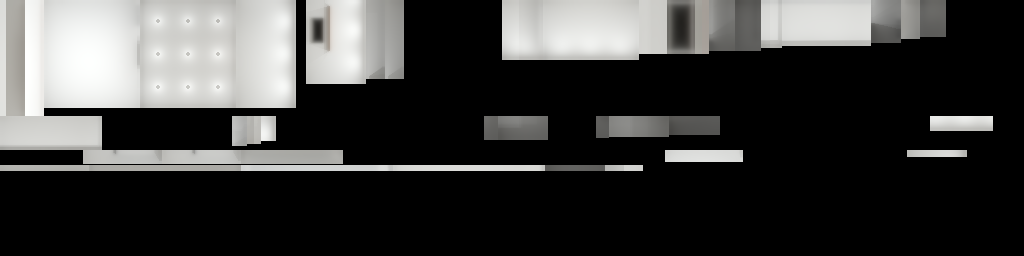
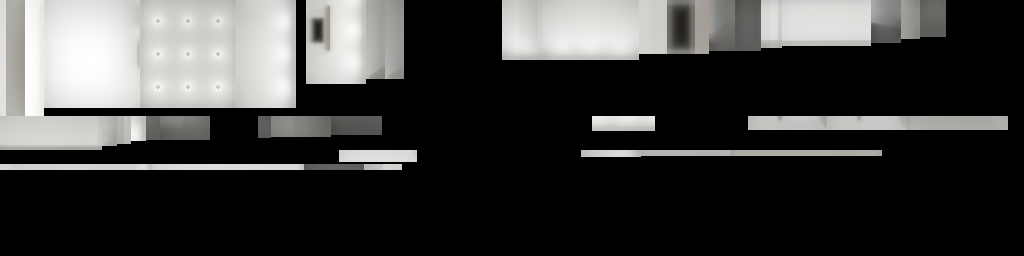
le Fleur Matcha: nur Gastraum (Theke raus), Sitzplätze + Stehbar mit Hockern
Claude-Session: https://claude.ai/code/session_01LTkqe2qEJCCsMp6yjQTc2F

Changed region(s): [[0.0, 0.4375, 1.0, 0.6875]]

diff --git a/lefleur/matcha/room.js b/lefleur/matcha/room.js
@@ -431,23 +431,7 @@ function slats(host, plane, a0, a1, y0, y1, seed) {
   const g = shadeVC(hostUV(mergeGeos(geos), host), faceK(fx, fz, 0.95, 0.5, 0.42, 0.4));
   return new THREE.Mesh(g, bakedMat(lin(1, 1, 1), oakV, { vertexColors: true }));
 }
-{
-  const C = S.CAB, P = S.PAN;
-  addF(slats('m_cab_z0', { n: 'z', c: C.z0, s: -1 }, C.x0, C.x1, 0.004, C.y1 - 0.002, 5));
-  addF(slats('m_cab_x0', { n: 'x', c: C.x0, s: -1 }, C.z0, C.z1, 0.004, C.y1 - 0.002, 6));
-  addF(slats('m_cab_x1', { n: 'x', c: C.x1, s: +1 }, C.z0, C.z1, 0.004, C.y1 - 0.002, 7));
-  addF(slats('m_pan_x1', { n: 'x', c: P.x1, s: +1 }, P.z0, P.z1, 0.0, P.y1, 8), 'D');
-  // Rückseite (Personal): 3 Türen, Griffe, Luft unter den Schränken
-  const z = C.z1 + 0.0012, e = eAt('m_cab_z1', [1.8, 0.5, C.z1]);
-  const seam = new THREE.MeshBasicMaterial({ color: lin(0.25 * e[0], 0.25 * e[1], 0.25 * e[2]) });
-  for (const x of [0.92, 1.52, 2.12, 2.72]) addF(new THREE.Mesh(boxG(x - 0.0015, x + 0.0015, 0.125, C.y1, z - 0.001, z), seam));
-  const hm = new THREE.MeshBasicMaterial({ color: lin(0.08 * e[0], 0.08 * e[1], 0.08 * e[2]) });
-  for (const x of [1.22, 1.82, 2.42]) addF(new THREE.Mesh(boxG(x - 0.06, x + 0.06, 0.80, 0.815, z, z + 0.02), hm));
-  const voidM = new THREE.MeshBasicMaterial({ color: lin(0.06 * e[0], 0.06 * e[1], 0.06 * e[2]) });
-  addF(new THREE.Mesh(boxG(0.92, 2.72, 0.0, 0.125, z, z + 0.001), voidM));
-  const lg = litMat('floor', [1.8, 0, C.z1 + 0.3], [0.7, 0.7, 0.7]);
-  for (const x of [0.95, 1.49, 1.55, 2.09, 2.15, 2.69]) addF(new THREE.Mesh(new THREE.CylinderGeometry(0.014, 0.014, 0.125, 10).translate(x, 0.0625, C.z1 - 0.03), lg));
-}
+addF(slats('m_pan_x1', { n: 'x', c: S.PAN.x1, s: +1 }, S.PAN.z0, S.PAN.z1, 0.0, S.PAN.y1, 8), 'D');   // Lamellen an Wand D
 
 // --- Bank-Gestell (STEGESUND, Bambus) und Naht zwischen den Polstern
 {
@@ -497,7 +481,7 @@ const CHG = chairGeo();
 S.CHAIRS.forEach(([x, z], i) => {
   const e = eAt(`m_c${i}_y1`, [x, 0.45, z]);
   const m = new THREE.Mesh(CHG, new THREE.MeshBasicMaterial({ color: lin(0.66 * e[0], 0.49 * e[1], 0.29 * e[2]), vertexColors: true, side: THREE.DoubleSide }));
-  m.rotation.y = i < 3 ? Math.PI : Math.atan2(S.TBIG[0] - x, S.TBIG[1] - z); m.position.set(x, 0, z); addF(m);
+  m.rotation.y = S.CHAIRS[i][2]; m.position.set(x, 0, z); addF(m);
   addF(new THREE.Mesh(new THREE.CircleGeometry(0.33, 32).rotateX(-Math.PI / 2).translate(x, 0.0012, z), new THREE.MeshBasicMaterial({ map: blobTex, transparent: true, depthWrite: false, opacity: 0.35, color: 0x000000 })));
 });
 
@@ -651,48 +635,34 @@ function plant(x, z, y0, kind, size, seed, wall = null, potR = 0.1, potH = 0.19)
 }
 plant(0.33, 0.36, 0, 'fig', 1.45, 3, null, 0.105, 0.2);                  // Birkenfeige, Ecke am Fenster
 plant(3.455, -0.14, 0, 'paddle', 1.05, 4, null, 0.115, 0.22);           // Paradiesvogelblume, rechts in der Nische
-plant(1.06, 3.88, S.TOP.y1, 'palm', 0.42, 5, null, 0.06, 0.11);         // Areca auf der Theke
-plant(W - 0.15, 1.62, S.SHELF.y, 'round', 0.3, 6, 'B', 0.06, 0.11);    // Monstera auf der Stehbar
+plant(W - 0.15, 3.48, S.SHELF.y, 'palm', 0.42, 5, 'B', 0.06, 0.11);    // Areca auf der Stehbar
+plant(W - 0.15, 1.56, S.SHELF.y, 'round', 0.3, 6, 'B', 0.06, 0.11);    // Monstera auf der Stehbar
 plant(1.08, L - 0.1, S.SHELVES[1] + 0.025, 'grass', 0.22, 7, 'C', 0.045, 0.08);  // Gras oben im Regal
 
-// --- Theke: Matcha-Schale mit Besen, Kassen-Tablet (PayPoint) und Kartenterminal
+// --- Barhocker DALFRED (schwarz, 63–74 cm) an der Stehbar
 {
-  const T = S.TOP, yT = T.y1, eT = (x, z) => eAt('m_top_y1', [x, yT, z]);
-  const mk = (x, z, alb, extra = {}) => { const e = eT(x, z); return new THREE.MeshBasicMaterial({ color: lin(alb[0] * e[0], alb[1] * e[1], alb[2] * e[2]), vertexColors: true, ...extra }); };
-  const bx = 1.62, bz = 3.92;
-  const pts = [[0.001, 0], [0.03, 0], [0.034, 0.008], [0.058, 0.03], [0.068, 0.072], [0.062, 0.072], [0.05, 0.035], [0.001, 0.014]].map(([a, b]) => new THREE.Vector2(a, b));
-  addF(new THREE.Mesh(shadeVC(new THREE.LatheGeometry(pts, 32).translate(bx, yT, bz), roundK(0.5, 1)), mk(bx, bz, [0.78, 0.75, 0.66])));
-  addF(new THREE.Mesh(shadeVC(new THREE.CircleGeometry(0.058, 28).rotateX(-Math.PI / 2).translate(bx, yT + 0.062, bz), () => 1), mk(bx, bz, [0.32, 0.46, 0.16])));
-  const wx = bx + 0.13;
-  addF(new THREE.Mesh(shadeVC(new THREE.CylinderGeometry(0.026, 0.012, 0.06, 20, 1, true).translate(wx, yT + 0.03, bz), roundK(0.5, 1)), mk(wx, bz, [0.68, 0.56, 0.36], { side: THREE.DoubleSide })));
-  addF(new THREE.Mesh(shadeVC(new THREE.CylinderGeometry(0.011, 0.011, 0.06, 12).translate(wx, yT + 0.09, bz), roundK(0.5, 1)), mk(wx, bz, [0.68, 0.56, 0.36])));
-  // Tablet-Kasse auf Ständer (zeigt zum Personal)
-  const tx = 2.42, tz = 4.02, dark = mk(tx, tz, [0.06, 0.06, 0.065]);
-  addF(new THREE.Mesh(shadeVC(new THREE.CylinderGeometry(0.06, 0.07, 0.012, 24).translate(tx, yT + 0.006, tz), roundK(0.5, 1)), dark));
-  addF(new THREE.Mesh(shadeVC(boxG(tx - 0.012, tx + 0.012, yT, yT + 0.17, tz - 0.012, tz + 0.012), roundK(0.5, 1)), dark));
-  const tab = new THREE.Group(); tab.position.set(tx, yT + 0.25, tz + 0.012); tab.rotation.x = -0.35;
-  const tg = shadeVC(boxG(-0.15, 0.15, -0.1, 0.1, -0.008, 0.008), faceK(0, 1, 0.8, 0.5, 0.6, 0.55)); tab.add(new THREE.Mesh(tg, dark));
-  const scr = new THREE.CanvasTexture(cnv(300, 200, (g, w, h) => { g.fillStyle = '#f6f8fb'; g.fillRect(0, 0, w, h); g.fillStyle = '#00afef'; g.fillRect(0, 0, w, 24); g.fillStyle = '#e5e8ee'; for (let i = 0; i < 6; i++) g.fillRect(14 + (i % 3) * 66, 40 + Math.floor(i / 3) * 70, 56, 56); g.fillStyle = '#0f172b'; g.fillRect(222, 40, 64, 140); })); scr.colorSpace = THREE.SRGBColorSpace;
-  const sg = new THREE.PlaneGeometry(0.28, 0.18); sg.translate(0, 0, 0.0085); tab.add(new THREE.Mesh(sg, new THREE.MeshBasicMaterial({ map: scr, color: lin(0.85, 0.85, 0.85) })));
-  addF(tab);
-  const kx = 2.12, kz = 3.98;
-  addF(new THREE.Mesh(shadeVC(boxG(kx - 0.04, kx + 0.04, yT, yT + 0.03, kz - 0.085, kz + 0.085), faceK(0, -1, 0.9, 0.5, 0.6, 0.6)), dark));
+  const g = [];
+  g.push(new THREE.CylinderGeometry(0.17, 0.165, 0.045, 32).translate(0, 0.735, 0));          // Sitz
+  g.push(new THREE.CylinderGeometry(0.026, 0.026, 0.5, 14).translate(0, 0.46, 0));             // Säule
+  g.push(new THREE.TorusGeometry(0.17, 0.009, 8, 32).rotateX(Math.PI / 2).translate(0, 0.3, 0));   // Fußring
+  for (let k = 0; k < 4; k++) { const a = k * Math.PI / 2 + 0.785, leg = new THREE.CylinderGeometry(0.011, 0.013, 0.46, 8); leg.translate(0, 0.23, 0); leg.applyMatrix4(new THREE.Matrix4().makeRotationZ(0.36)); leg.applyMatrix4(new THREE.Matrix4().makeRotationY(a)); g.push(leg); }
+  const geo = shadeVC(mergeGeos(g), (nx, ny, nz, x, y) => (ny > 0.6 ? 1.0 : ny < -0.6 ? 0.35 : 0.55 + 0.3 * Math.abs(nx)) * (0.5 + 0.5 * sm(0, 0.6, y)));
+  for (const [x, z] of S.STOOLS) {
+    const e = eAt('floor', [x - 0.35, 0, z]);
+    addF(new THREE.Mesh(geo, new THREE.MeshBasicMaterial({ color: lin(0.09 * e[0], 0.09 * e[1], 0.095 * e[2]), vertexColors: true }))).position.set(x, 0, z);
+    addF(new THREE.Mesh(new THREE.CircleGeometry(0.3, 32).rotateX(-Math.PI / 2).translate(x, 0.0012, z), new THREE.MeshBasicMaterial({ map: blobTex, transparent: true, depthWrite: false, opacity: 0.35, color: 0x000000 })));
+  }
 }
 FURN.visible = LOOK === 'matcha';
 
 // ------------------------------------------------------------------ Einkaufsliste (geprüfte Preise, Stand 24.11.2026)
 const LIST = [
-  ['Theke', [
-    [3, 'ENHET Unterschrank mit Tür, 60×62×75, weiß', 69.00, 'IKEA', 'https://www.ikea.com/de/en/p/enhet-sink-cabinet-with-door-white-00623032/'],
-    [6, 'ENHET Beine 12,5 cm (2 Stück)', 8.00, 'IKEA', 'https://www.ikea.com/de/en/p/enhet-legs-f-cabinet-white-10449018/'],
-    [1, 'SÄLJAN Arbeitsplatte Eiche-Optik 246 cm (auf 186 kürzen)', 89.00, 'IKEA', 'https://www.ikea.com/de/en/cat/kitchen-worktops-24264/f/oak-kitchen-worktops-f-appearance--50679/'],
-    [2, 'Akustikpaneel Eiche 267×57 cm (Theken-Front)', 44.28, 'Hornbach', 'https://www.hornbach.de/p/akustikpaneel-eiche-einseitig-foliert-2670-x-572-x-19-mm/12382963/'],
-  ]],
   ['Licht', [[4, 'SINNERLIG Hängeleuchte Bambus Ø 27 cm', 29.99, 'IKEA', 'https://www.ikea.com/de/en/p/sinnerlig-pendant-lamp-bamboo-handmade-00508536/']]],
   ['Sitzen', [
     [3, 'STEGESUND Bank Bambus 79×34 cm (Fensternische)', 49.99, 'IKEA', 'https://www.ikea.com/de/en/cat/benches-700319/'],
     [2, 'Bankauflage beige 40×120 cm', 29.95, 'Kaufland', 'https://www.kaufland.de/product/497721620/'],
-    [7, 'LISABO Stuhl Esche (gerade im Angebot, sonst 69,99 €)', 39.99, 'IKEA', 'https://www.ikea.com/de/en/p/lisabo-chair-ash-00457235/'],
+    [8, 'LISABO Stuhl Esche (gerade im Angebot, sonst 69,99 €)', 39.99, 'IKEA', 'https://www.ikea.com/de/en/p/lisabo-chair-ash-00457235/'],
+    [3, 'DALFRED Barhocker schwarz, 63–74 cm (Stehbar)', 49.99, 'IKEA', 'https://www.ikea.com/de/en/cat/bar-stools-chairs-20864/f/black-bar-stools-chairs-f-colors--10139/'],
   ]],
   ['Wände', [
     [1, 'Wandfarbe Pastellgrün 2,5 l (Wand mit Bogen)', 39.99, 'OBI', 'https://www.obi.de/p/5376520/alpina-feine-farben-no-38-essenz-der-natur-pastellgruen-edelmatt-2-5-l'],
@@ -728,7 +698,7 @@ const TOTAL = Math.round(LIST.reduce((s, [, rows]) => s + rows.reduce((a, [n, , 
 const st = { x: W / 2, z: L - 0.9, yaw: 0, pitch: -0.05, mode: 'walk', orbit: { th: 0.75, ph: 0.9, r: 8.2 } };
 const keys = {}; let walkTo = null, tween = null, joy = null, look = null;
 const RECTS = [[0.3, W - 0.3, 0.3, L - 0.3], [W - 0.35, W + S.PAS.t + 0.4, S.PAS.z0 + 0.3, S.PAS.z1 - 0.3], [W + S.PAS.t + 0.0, S.VES.x1 - 0.3, S.VES.z0 + 0.3, S.VES.z1 - 0.3]];
-const BLOCK = [[0.0, 3.65, 0.0, 1.45], [0.1, 1.9, 1.45, 3.2], [0.62, 3.0, 3.43, 4.58]];   // Fensterplätze, großer Tisch, Theke
+const BLOCK = [[0.0, 3.4, 0.0, 1.45], [0.0, 1.0, 1.45, 3.15], [1.0, 2.65, 3.55, 5.2], [3.8, 4.6, 1.65, 3.4]];   // Fenster, Tisch Wand D, großer Tisch, Barhocker
 const inR = (r, x, z) => x >= r[0] && x <= r[1] && z >= r[2] && z <= r[3];
 const free = (x, z) => RECTS.some(r => inR(r, x, z)) && !(x > W - 0.45 && x < W && z > S.SHELF.z0 - 0.1 && z < S.SHELF.z1 + 0.1) && !(LOOK === 'matcha' && BLOCK.some(r => inR(r, x, z)));
 function moveBy(dx, dz) { if (free(st.x + dx, st.z + dz)) { st.x += dx; st.z += dz; return true; } if (free(st.x + dx, st.z)) { st.x += dx; return true; } if (free(st.x, st.z + dz)) { st.z += dz; return true; } return false; }
@@ -737,8 +707,8 @@ const VIEWS_L = {
   bogen: { x: W / 2 - 0.2, z: 0.5, yaw: Math.PI }, wand: { x: W - 0.55, z: 2.6, yaw: Math.PI / 2 },
 };
 const VIEWS_M = {                                            // im Entwurf: Standpunkte zwischen den Möbeln
-  fenster: { x: 3.4, z: 4.72, yaw: 0.27, pitch: -0.14 }, eingang: { x: 4.1, z: 0.62, yaw: 2.62, pitch: -0.1 },
-  bogen: { x: 2.65, z: 1.75, yaw: Math.PI + 0.06, pitch: -0.06 }, wand: { x: 4.0, z: 2.4, yaw: Math.PI / 2, pitch: -0.08 },
+  fenster: { x: 3.3, z: 4.55, yaw: 0.32, pitch: -0.12 }, eingang: { x: 3.62, z: 0.72, yaw: 2.76, pitch: -0.1 },
+  bogen: { x: 2.5, z: 2.0, yaw: Math.PI + 0.12, pitch: -0.05 }, wand: { x: 3.5, z: 2.3, yaw: Math.PI / 2, pitch: -0.08 },
 };
 let VIEWS = LOOK === 'matcha' ? VIEWS_M : VIEWS_L;
 const START = { leer: 'fenster', matcha: 'eingang' };
@@ -763,7 +733,7 @@ function setLook(m, jump = true) {
   MAT.paintC.color.copy(mt ? C_GREEN : C_WALL); MAT.archIn.color.copy(mt ? C_GREEN2 : C_WALL); MAT.reveal.color.copy(mt ? C_GREEN2 : C_WALL);
   FURN.visible = mt; document.body.classList.toggle('matcha', mt);
   document.querySelectorAll('#look button').forEach(b => b.classList.toggle('on', b.dataset.l === m));
-  document.getElementById('sub').textContent = mt ? 'Matcha-Laden · Entwurf' : 'Raum jetzt';
+  document.getElementById('sub').textContent = mt ? 'Gastraum · Matcha-Entwurf' : 'Raum jetzt';
   if (!mt) closeSheet();
   if (jump && st.mode === 'walk' && !free(st.x, st.z)) { const v = VIEWS[START[m]]; Object.assign(st, { x: v.x, z: v.z, yaw: v.yaw, pitch: v.pitch ?? -0.05 }); walkTo = null; tween = null; }
   req();

diff --git a/lefleur/matcha/index.html b/lefleur/matcha/index.html
@@ -64,14 +64,14 @@ body.matcha #listBtn{display:block}
 </head>
 <body>
 <canvas id="c"></canvas>
-<div class="chip"><b>le Fleur</b><span id="sub">Matcha-Laden · Entwurf</span></div>
+<div class="chip"><b>le Fleur</b><span id="sub">Gastraum · Matcha-Entwurf</span></div>
 <div id="look" role="group" aria-label="Ansicht"><button data-l="leer">Jetzt</button><button data-l="matcha" class="on">Matcha-Laden</button></div>
 <button id="listBtn" type="button">Einkaufsliste · <b id="listSum"></b></button>
 <aside id="sheet" aria-label="Einkaufsliste">
-  <header><b>Einkaufsliste Matcha-Laden</b><span>Budget 1.500 € · Möbel, Theke, Deko – ohne Maschinen</span><button id="sheetX" type="button" aria-label="Schließen">×</button></header>
+  <header><b>Einkaufsliste Gastraum</b><span>Budget 1.500 € · Möbel, Licht, Deko – ohne Maschinen</span><button id="sheetX" type="button" aria-label="Schließen">×</button></header>
   <div id="sheetBody"></div>
   <footer><div class="tot"><span>Summe</span><span id="sum"></span></div><div class="r"><span>Rest vom Budget</span><span id="rest"></span></div>
-  <p>Die weißen Tische bleiben. Rest ist für Glühbirnen, Schrauben und Farbrolle. Nicht drin: Elektriker für die Lampen an der Decke. Preise geprüft am 24.11.2026 – können sich ändern.</p></footer>
+  <p>Die weißen Tische bleiben. Den Rest z. B. für den Elektriker (4 Lampen an der Decke anschließen), Glühbirnen, Schrauben und Farbrolle. Preise geprüft am 24.11.2026 – können sich ändern.</p></footer>
 </aside>
 <div id="note">Maße geschätzt</div>
 <nav id="views" aria-label="Ansichten">
@@ -84,6 +84,6 @@ body.matcha #listBtn{display:block}
 <div id="hint"><span class="t"></span></div>
 <div id="joy"><i></i></div>
 <div id="load">Raum wird geladen …</div>
-<script type="module" src="room.js?v=20261124m1"></script>
+<script type="module" src="room.js?v=20261124m2"></script>
 </body>
 </html>
